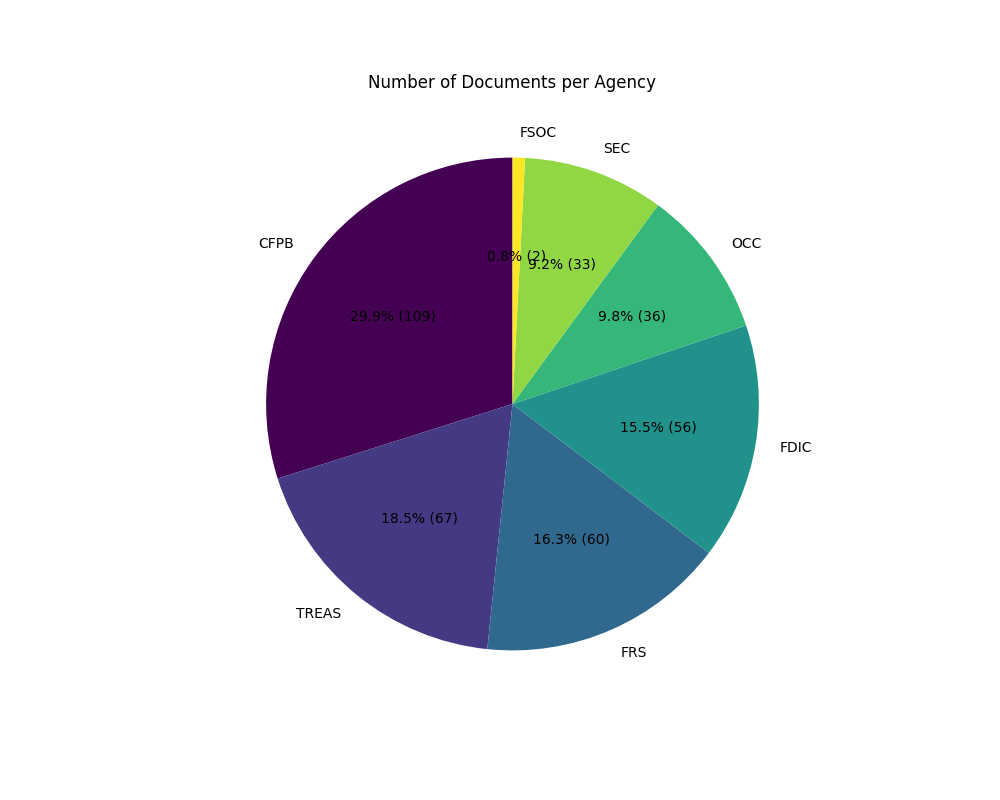
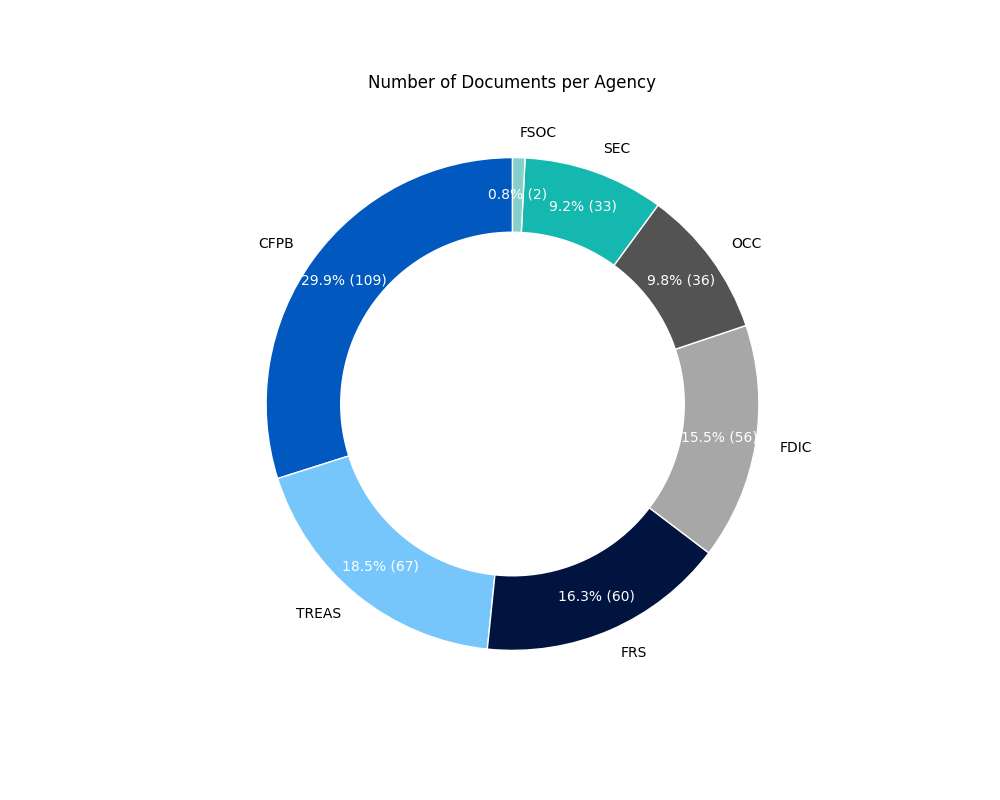
eda updates

Changed region(s): [[0.248, 0.1875, 0.775, 0.8125]]

diff --git a/data_preparation/eda.py b/data_preparation/eda.py
@@ -50,6 +50,7 @@ print(len(post_SVB))
 combined = pd.concat([pre_SVB, post_SVB])
 #print(combined.head())
 print(len(combined))
+print(combined.head())
 
 import matplotlib.pyplot as plt
 
@@ -57,10 +58,29 @@ import matplotlib.pyplot as plt
 agency_counts = combined['agency'].value_counts()
 
 # Plot a pie chart
-plt.figure(figsize=(10, 8))
-agency_counts.plot.pie(autopct=lambda p: f'{p:.1f}% ({int(p * agency_counts.sum() / 100)})', startangle=90, cmap='viridis')
+colors = ['#0158BF', '#76C6FC', '#00143F', '#a7a7a7', '#535353', '#15b8ae', '#85d0ccff']
+fig, ax = plt.subplots(figsize=(10, 8))
+
+# Create pie chart
+wedges, texts, autotexts = ax.pie(agency_counts, 
+                                 labels=agency_counts.index,
+                                 autopct=lambda p: f'{p:.1f}% ({int(p * agency_counts.sum() / 100)})',
+                                 startangle=90,
+                                 colors=colors,
+                                 wedgeprops={'linewidth': 1, 'edgecolor': 'white'},
+                                 pctdistance=0.85)
+
+# Set colors for texts
+plt.setp(autotexts, color='white')  # percentage labels in white
+plt.setp(texts, color='black')      # agency labels in black
+
 plt.title('Number of Documents per Agency')
-plt.ylabel('')  # Hide the y-label
+plt.ylabel('')
+
+# Draw a white circle at the center to make it look like a donut chart
+centre_circle = plt.Circle((0,0), 0.70, fc='white')
+fig.gca().add_artist(centre_circle)
+
 plt.savefig('data_preparation/agency_pie_chart.png')
 
 # Extract year and month from 'posted_date'
@@ -71,8 +91,8 @@ monthly_counts = combined.groupby(['year_month', 'type']).size().unstack(fill_va
 
 # Plot a line graph
 plt.figure(figsize=(12, 6))
-monthly_counts.plot(kind='line', marker='o')
-plt.axvline(pd.Timestamp('2023-03-10').to_period('M'), color='red', linestyle='--', label='SVB Collapse')
+monthly_counts.plot(kind='line', marker='o', color=colors)
+plt.axvline(pd.Timestamp('2023-03-10').to_period('M'), color='#15b8ae', linestyle='--', label='SVB Collapse')
 plt.title('Number of Documents per Month by Type')
 plt.xlabel('Month')
 plt.ylabel('Number of Documents')
@@ -84,4 +104,48 @@ plt.savefig('data_preparation/documents_per_month_by_type.png')
 print(combined['posted_date'].min())
 print(combined['posted_date'].max())
 
+# Count the number of words in each document
+def count_words(file_path):
+    with open(file_path, 'r') as file:
+        return len(file.read().split())
 
+combined['word_count'] = combined['filename_y'].apply(lambda x: count_words(f'documents/pre_SVB/{x}') if x in pre_SVB_files else count_words(f'documents/post_SVB/{x}'))
+
+# Plot a histogram of the distribution of the lengths
+plt.figure(figsize=(12, 6))
+n, bins, patches = plt.hist(combined['word_count'], bins=30, color='#0158BF', edgecolor='black')
+plt.title('Distribution of Document Lengths')
+plt.xlabel('Document Length')
+plt.ylabel('Frequency')
+
+# Add values at the top of the bars
+for i in range(len(patches)):
+    plt.text(patches[i].get_x() + patches[i].get_width() / 2, patches[i].get_height(), 
+             str(int(patches[i].get_height())), ha='center', va='bottom', fontsize=10, color='black')
+
+# Remove the outline
+for patch in patches:
+    patch.set_edgecolor('none')
+
+plt.savefig('data_preparation/document_length_distribution.png')
+
+# Filter documents with less than 100,000 words
+filtered_combined = combined[combined['word_count'] < 25000]
+
+# Plot a histogram of the distribution of the lengths for filtered documents
+plt.figure(figsize=(12, 6))
+n, bins, patches = plt.hist(filtered_combined['word_count'], bins=30, color='#0158BF', edgecolor='black')
+plt.title('Distribution of Document Lengths (Less than 25,000 words)')
+plt.xlabel('Document Length')
+plt.ylabel('Frequency')
+
+# Add values at the top of the bars
+for i in range(len(patches)):
+    plt.text(patches[i].get_x() + patches[i].get_width() / 2, patches[i].get_height(), 
+             str(int(patches[i].get_height())), ha='center', va='bottom', fontsize=10, color='black')
+
+# Remove the outline
+for patch in patches:
+    patch.set_edgecolor('none')
+
+plt.savefig('data_preparation/document_length_distribution_filtered.png')
